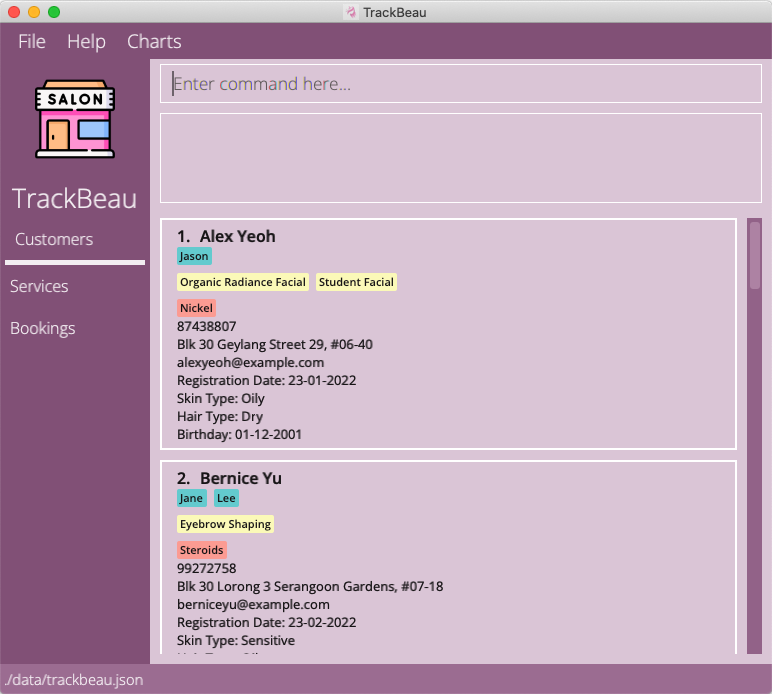
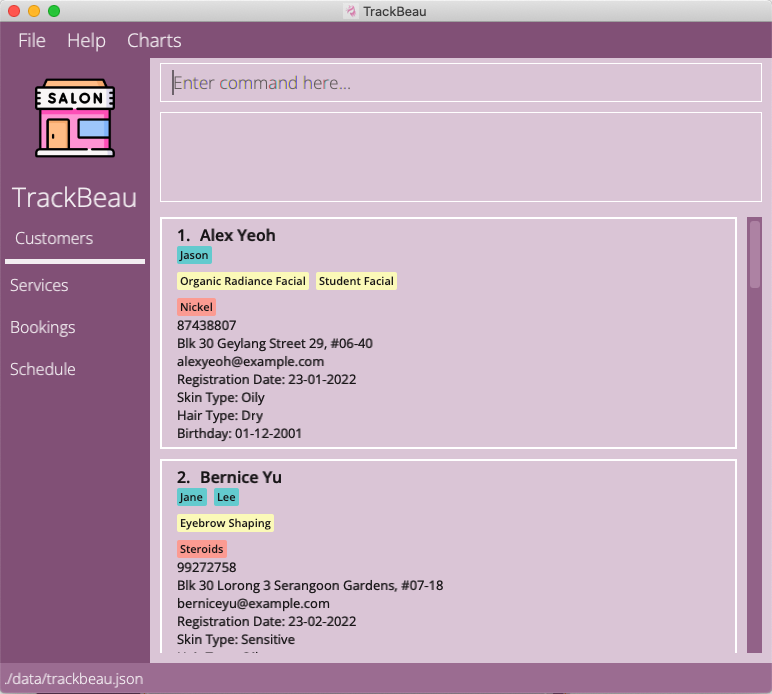
Update UG with latest GUI

diff --git a/docs/UserGuide.md b/docs/UserGuide.md
@@ -64,7 +64,7 @@ The table below explains the symbols and syntax used throughout the user guide.
 
 #### 3.2.2 Sections of TrackBeau's GUI
 The image below shows the annotated GUI components of TrackBeau.
-![Annotated GUI](images/user-guide/annotated-gui-v2.png)
+![Annotated GUI](images/user-guide/annotated-gui-v3.png)
 
 #### 3.2.3 Navigating in TrackBeau
 TrackBeau consists of tabs that are toggleable in the tab bar on the left side of the GUI.
@@ -134,7 +134,7 @@ The table below shows a list of command parameters that will be used for custome
 |`NAME`|Name of the customer. Names should only contain alphanumeric characters and spaces, and it should not be blank.|
 |`PHONE_NUMBER`|Phone number of the customer. Phone numbers should only contain numbers, and it should be at least 3 digits long.|
 |`ADDRESS`|Address of the customer. Addresses can take any values, and it should not be blank.|
-|`EMAIL`|Email of the customer. Emails should be of the format local-part@domain and adhere to the following constraints: <br> <ol><li> The local-part should only contain alphanumeric characters and these special characters, excluding the parentheses, (+_.-). The local-part may not start or end with any special characters.</li> <li> This is followed by a '@' and then a domain name. The domain name is made up of domain labels separated by periods. The domain name must: <ul><li>end with a domain label at least 2 characters long</li> <li>have each domain label start and end with alphanumeric characters</li> <li>have each domain label consist of alphanumeric characters, separated only by hyphens, if any.</li><ul></li></ol>|
+|`EMAIL`|Email of the customer. Emails should be of the format local-part@domain and adhere to the following constraints: {::nomarkdown}<ol><li>The local-part should only contain alphanumeric characters and these special characters, excluding the parentheses, (+_.-). The local-part may not start or end with any special characters.</li><li>This is followed by a '@' and then a domain name. The domain name is made up of domain labels separated by periods. The domain name must: <ul><li>end with a domain label at least 2 characters long</li><li>have each domain label start and end with alphanumeric characters</li><li>have each domain label consist of alphanumeric characters, separated only by hyphens, if any.</li><ul></li></ol>{:/}|
 |`STAFF_PREFERENCE`|The name of the staffs that the customer prefers. Staffs' name can be any values, and it should not be blank.|
 |`SERVICE_PREFERENCE`|The name of the services that the customer prefers. Services' name can be any values, and it should not be blank.|
 |`HAIR_TYPE`|The hair type of the customer. Hair types can be any values, and it should not be blank.|
